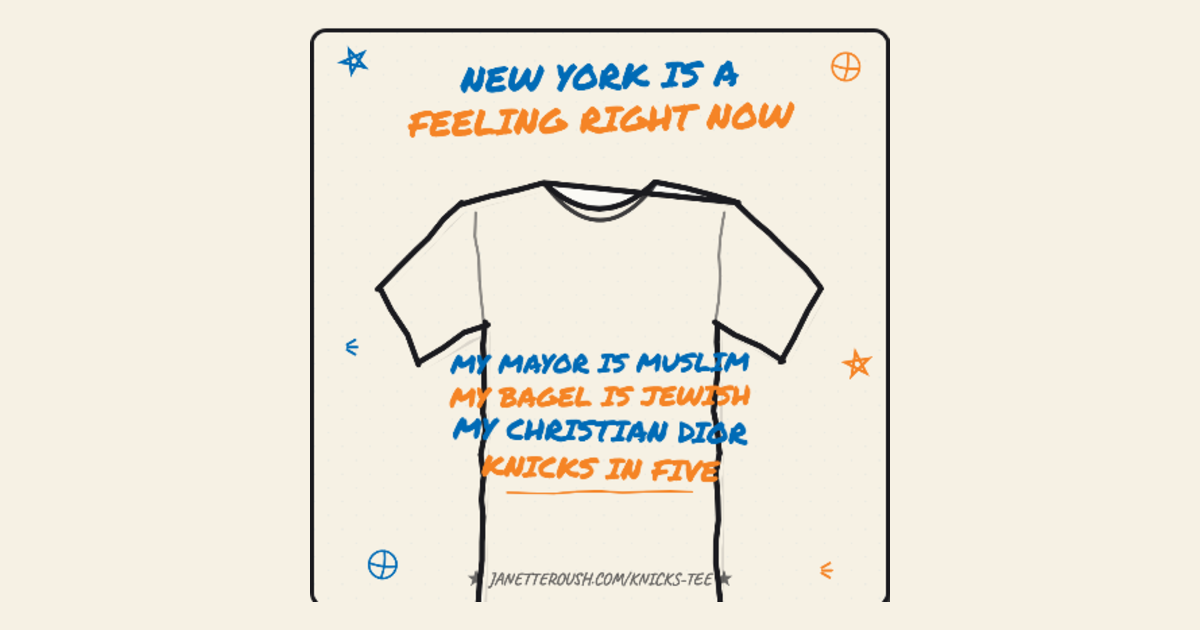
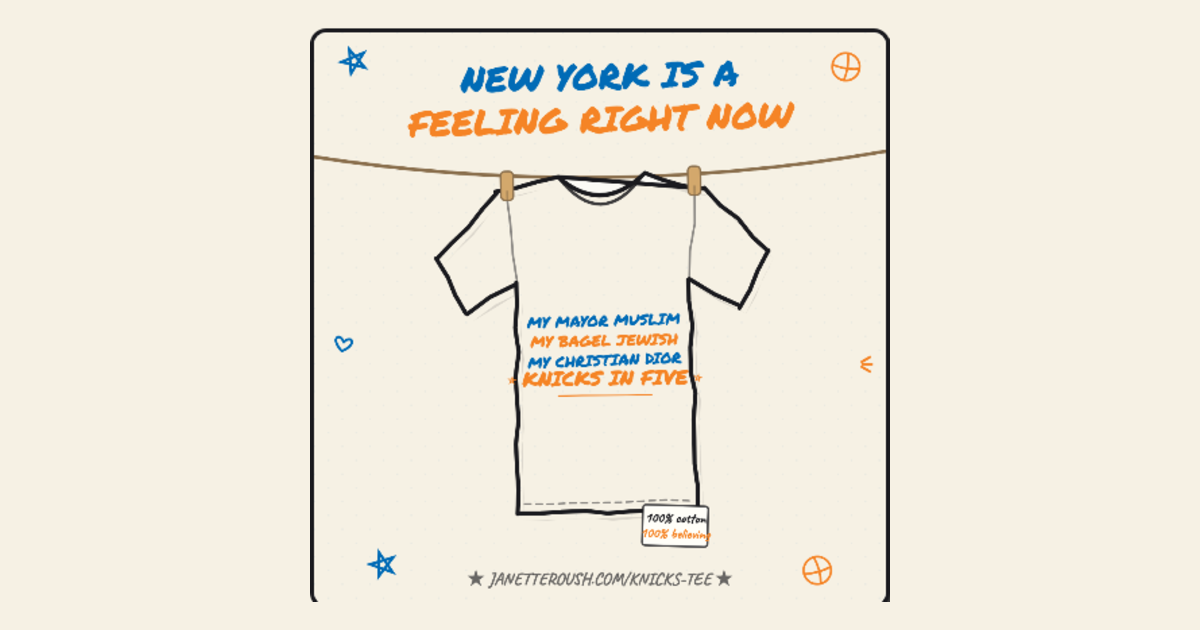
Knicks tee v2: lock the chant, hang the tee on a clothesline
Only the Dior line is editable now. Lettering centered on the shirt
body, closer line enlarged with stars, care label at the hem,
clothespins, hearts.

diff --git a/public/knicks-tee/index.html b/public/knicks-tee/index.html
@@ -104,6 +104,21 @@
     color: var(--ink);
   }
   input[type=text]:focus { outline: 3px solid var(--orange); }
+  .fixedline {
+    width: 100%;
+    font-family: 'Permanent Marker', cursive;
+    font-size: 17px;
+    padding: 8px 10px;
+    border: 2.5px dashed rgba(27,27,31,.45);
+    border-radius: 8px;
+    background: #f1ecdd;
+    margin-bottom: 7px;
+    color: rgba(27,27,31,.75);
+    display: flex;
+    justify-content: space-between;
+    align-items: center;
+  }
+  .fixedline .lock { font-size: 13px; opacity: .6; }
   .chips { display: flex; flex-wrap: wrap; gap: 7px; }
   .chip {
     font-family: 'Permanent Marker', cursive;
@@ -169,14 +184,14 @@
 
 <div class="wrap">
   <div class="panel">
-    <span class="label">YOUR CHANT (write whatever's in your heart)</span>
-    <input type="text" id="line1" maxlength="34" value="MY MAYOR IS MUSLIM">
-    <input type="text" id="line2" maxlength="34" value="MY BAGEL IS JEWISH">
-    <input type="text" id="line3" maxlength="34" value="MY CHRISTIAN DIOR">
-    <input type="text" id="line4" maxlength="34" value="KNICKS IN FIVE">
+    <span class="label">THE CHANT (three lines are law. one is yours)</span>
+    <div class="fixedline">MY MAYOR MUSLIM <span class="lock">🔒</span></div>
+    <div class="fixedline">MY BAGEL JEWISH <span class="lock">🔒</span></div>
+    <input type="text" id="line3" maxlength="28" value="MY CHRISTIAN DIOR">
+    <div class="fixedline">KNICKS IN FIVE <span class="lock">🔒</span></div>
 
-    <span class="label">KNICKS IN ___ (things that rhyme with five, mostly)</span>
-    <div class="chips" id="rhymes"></div>
+    <span class="label">OR BORROW A THIRD LINE</span>
+    <div class="chips" id="suggestions"></div>
 
     <span class="label">TEE STYLE</span>
     <div class="chips" id="styles"></div>
@@ -197,8 +212,7 @@
 
     <div class="btnrow">
       <button class="big dl" id="download">⬇ SAVE MY TEE</button>
-      <button class="big shuffle" id="shuffle">🎲 SHUFFLE LINES</button>
-      <button class="big reset" id="reset">back to the chant</button>
+      <button class="big reset" id="reset">back to Dior</button>
     </div>
   </div>
 
@@ -211,30 +225,21 @@
 <script>
 const SITE_TAG = "JANETTEROUSH.COM/KNICKS-TEE";
 
-const RHYMES = [
-  "FIVE", "FIVE (OBVIOUSLY)", "ALIVE", "A VIBE", "OVERDRIVE",
-  "HIGH FIVE", "STAYIN' ALIVE", "SURVIVE & ADVANCE", "FIVE, BABY"
-];
+const FIXED_TOP = ["MY MAYOR MUSLIM", "MY BAGEL JEWISH"];
+const FIXED_END = "KNICKS IN FIVE";
+const DIOR = "MY CHRISTIAN DIOR";
 
-const SHUFFLE_POOL = [
-  "MY LANDLORD IS LURKING",
-  "MY RAT IS GORGEOUS",
-  "MY BODEGA CAT IS UNDEFEATED",
-  "MY TRAIN IS DELAYED",
-  "MY SLICE IS A DOLLAR",
-  "MY STOOP IS SACRED",
-  "MY THERAPIST IS PROUD",
-  "MY DELI GUY KNOWS MY ORDER",
-  "MY PIGEON IS CARRYING US",
-  "MY HALAL CART IS HEATING UP",
-  "MY SUPER IS SCREENING MY CALLS",
-  "MY BLOCK IS BUZZING",
-  "MY COUSIN HAS A GUY",
-  "MY GARDEN IS SQUARE",
-  "MY HEART IS ORANGE & BLUE"
+// the Dior slot — same cadence, your own devotion
+const SUGGESTIONS = [
+  "MY CHRISTIAN DIOR",
+  "MY RAT GORGEOUS",
+  "MY THERAPIST PROUD",
+  "MY LANDLORD NERVOUS",
+  "MY BODEGA ETERNAL",
+  "MY SLICE FOLDED",
+  "MY GARDEN ELECTRIC",
+  "MY PIGEON FEARLESS"
 ];
-
-const DEFAULTS = ["MY MAYOR IS MUSLIM", "MY BAGEL IS JEWISH", "MY CHRISTIAN DIOR", "KNICKS IN FIVE"];
 
 const STYLES = [
   { key: "marker",  name: "MARKER",     font: "Permanent Marker" },
@@ -402,16 +407,21 @@ function fitFont(c, text, fontFamily, weight, maxW, startSize) {
 function drawChant(c, lines, style, inks, teeIsDark, x, y, w, h, seed) {
   const rnd = mulberry32(seed + 7);
   const styleDef = STYLES.find(s => s.key === style);
-  const maxW = w * 0.66;
+  // keep lettering on the shirt body, off the sleeves
+  const maxW = w * 0.44;
   const cx = x + w * 0.5;
   const active = lines.filter(l => l.trim().length);
   if (!active.length) return;
 
-  const baseSize = style === "puff" ? w * 0.085 : w * 0.062;
+  const baseSize = style === "puff" ? w * 0.078 : w * 0.058;
   const weight = style === "puff" ? "700" : "400";
 
-  // measure all lines first so the block centers vertically in the chest area
-  const sizes = active.map(l => fitFont(c, l, styleDef.font, weight, maxW, baseSize));
+  // measure all lines first so the block centers vertically in the chest area;
+  // the closer gets to be the loudest line on the shirt
+  const sizes = active.map((l, i) => {
+    const big = i === active.length - 1;
+    return fitFont(c, l, styleDef.font, weight, maxW * (big ? 1.08 : 1), baseSize * (big ? 1.3 : 1));
+  });
   const gaps = sizes.map(s => s * (style === "scrawl" ? 1.65 : 1.3));
   const totalH = gaps.reduce((a, b) => a + b, 0);
   const chestTop = y + h * 0.27;
@@ -424,10 +434,11 @@ function drawChant(c, lines, style, inks, teeIsDark, x, y, w, h, seed) {
     const size = sizes[i];
     c.save();
     c.translate(cx, ty);
-    c.rotate(((rnd() - 0.5) * 3) * Math.PI / 180);
+    c.rotate(((rnd() - 0.5) * 2) * Math.PI / 180);
     c.font = `${weight} ${size}px "${styleDef.font}"`;
     c.textAlign = "center";
     c.textBaseline = "alphabetic";
+    const lineW = c.measureText(line).width;
 
     if (style === "ironon") {
       // each letter placed by hand, slightly crooked
@@ -461,6 +472,11 @@ function drawChant(c, lines, style, inks, teeIsDark, x, y, w, h, seed) {
         c.fillText(line, size * 0.02, -size * 0.015);
         c.globalAlpha = 1;
       }
+    }
+    // little stars flank the closer
+    if (i === active.length - 1) {
+      drawStar(c, -lineW / 2 - size * 0.5, -size * 0.32, size * 0.18, ink, rnd);
+      drawStar(c, lineW / 2 + size * 0.5, -size * 0.32, size * 0.18, ink, rnd);
     }
     c.restore();
     lastBaseline = ty;
@@ -511,6 +527,44 @@ function drawBall(c, x, y, r, color, rnd) {
   c.restore();
 }
 
+function drawHeart(c, x, y, r, color, rnd) {
+  c.save();
+  c.translate(x, y);
+  c.rotate((rnd() - 0.5) * 0.5);
+  c.strokeStyle = color;
+  c.lineWidth = r * 0.22;
+  c.lineJoin = "round";
+  c.beginPath();
+  c.moveTo(0, r * 0.35);
+  c.bezierCurveTo(-r * 1.3, -r * 0.55, -r * 0.5, -r * 1.25, 0, -r * 0.45);
+  c.bezierCurveTo(r * 0.5, -r * 1.25, r * 1.3, -r * 0.55, 0, r * 0.35);
+  c.closePath();
+  c.stroke();
+  c.restore();
+}
+
+function drawPin(c, x, y, w, color, outline) {
+  c.save();
+  c.translate(x, y);
+  c.fillStyle = color;
+  c.strokeStyle = outline;
+  c.lineWidth = w * 0.14;
+  c.lineJoin = "round";
+  const pw = w, ph = w * 2.3;
+  c.beginPath();
+  c.roundRect(-pw / 2, -ph * 0.62, pw, ph, w * 0.35);
+  c.fill();
+  c.stroke();
+  // spring slot
+  c.beginPath();
+  c.moveTo(0, ph * 0.05);
+  c.lineTo(0, ph * 0.38);
+  c.lineWidth = w * 0.16;
+  c.globalAlpha = 0.55;
+  c.stroke();
+  c.restore();
+}
+
 function drawSpark(c, x, y, r, color) {
   c.save();
   c.strokeStyle = color;
@@ -532,7 +586,8 @@ function render() {
   canvas.width = fmt.w;
   canvas.height = fmt.h;
 
-  const lines = [1, 2, 3, 4].map(i => document.getElementById("line" + i).value.toUpperCase());
+  const line3 = document.getElementById("line3").value.toUpperCase();
+  const lines = [FIXED_TOP[0], FIXED_TOP[1], line3, FIXED_END];
   const tee = TEE_COLORS[state.teeColor];
   const inks = INKS[state.ink].colors;
   const teeIsDark = ["blue", "orange", "black"].includes(tee.name);
@@ -562,13 +617,35 @@ function render() {
   ctx.fillText("FEELING RIGHT NOW", 0, fmt.w * 0.075);
   ctx.restore();
 
-  // tee
-  const teeW = fmt.w * 0.82;
-  const teeH = teeW * 1.06;
-  const teeX = (fmt.w - teeW) / 2;
+  // tee — sized to always fit between headline and footer
   const teeY = state.format === "story"
     ? headY + fmt.w * 0.16
     : headY + fmt.w * 0.115;
+  const footerRoom = fmt.w * (state.format === "story" ? 0.55 : 0.13);
+  let teeW = fmt.w * 0.82;
+  const maxTeeH = fmt.h - teeY - footerRoom;
+  if (teeW * 1.06 > maxTeeH) teeW = maxTeeH / 1.06;
+  const teeH = teeW * 1.06;
+  const teeX = (fmt.w - teeW) / 2;
+
+  // clothesline strung across the frame, sagging a little under the weight of belief
+  const ropeY = teeY + teeH * 0.055;
+  ctx.save();
+  ctx.strokeStyle = "#8a6f4d";
+  ctx.lineWidth = fmt.w * 0.006;
+  ctx.lineCap = "round";
+  ctx.beginPath();
+  ctx.moveTo(-10, ropeY - fmt.w * 0.035);
+  ctx.quadraticCurveTo(fmt.w * 0.5, ropeY + fmt.w * 0.045, fmt.w + 10, ropeY - fmt.w * 0.045);
+  ctx.stroke();
+  ctx.restore();
+
+  // tee hangs from the line, slightly crooked, like laundry
+  const teeCx = teeX + teeW / 2;
+  ctx.save();
+  ctx.translate(teeCx, teeY);
+  ctx.rotate(-0.022);
+  ctx.translate(-teeCx, -teeY);
 
   // soft shadow behind tee
   ctx.save();
@@ -583,6 +660,34 @@ function render() {
   drawTee(ctx, teeX, teeY, teeW, teeH, tee.tee, tee.outline, seed);
   drawChant(ctx, lines, state.style, inks, teeIsDark, teeX, teeY, teeW, teeH, seed);
 
+  // care label peeking out of the hem
+  const tagW = teeW * 0.185, tagH = teeW * 0.115;
+  const tagX = teeX + teeW * 0.60, tagY = teeY + teeH * 0.938;
+  ctx.save();
+  ctx.translate(tagX + tagW / 2, tagY);
+  ctx.rotate(0.05);
+  ctx.fillStyle = "#fffef8";
+  ctx.strokeStyle = "rgba(27,27,31,.8)";
+  ctx.lineWidth = fmt.w * 0.0035;
+  ctx.beginPath();
+  ctx.roundRect(-tagW / 2, 0, tagW, tagH, 6);
+  ctx.fill();
+  ctx.stroke();
+  ctx.font = `700 ${tagH * 0.34}px "Caveat"`;
+  ctx.textAlign = "center";
+  ctx.fillStyle = "#1b1b1f";
+  ctx.fillText("100% cotton", 0, tagH * 0.42);
+  ctx.fillStyle = "#F58426";
+  ctx.fillText("100% believing", 0, tagH * 0.80);
+  ctx.restore();
+
+  // wooden clothespins at the shoulders
+  const pinW = fmt.w * 0.022;
+  drawPin(ctx, teeX + teeW * 0.235, teeY + teeH * 0.085, pinW, "#d3a86c", "#8a6f4d");
+  drawPin(ctx, teeX + teeW * 0.765, teeY + teeH * 0.082, pinW, "#d3a86c", "#8a6f4d");
+
+  ctx.restore(); // end hanging-tee group
+
   // doodles in the margins
   const dColors = ["#006BB6", "#F58426"];
   const spots = state.format === "story"
@@ -590,9 +695,10 @@ function render() {
     : [[0.07, 0.05], [0.93, 0.06], [0.05, 0.55], [0.95, 0.58], [0.12, 0.93], [0.88, 0.94]];
   spots.forEach(([fx, fy], i) => {
     const x = fx * fmt.w, y = fy * fmt.h, col = dColors[i % 2];
-    const kind = i % 3;
+    const kind = i % 4;
     if (kind === 0) drawStar(ctx, x, y, fmt.w * 0.022, col, rnd);
     else if (kind === 1) drawBall(ctx, x, y, fmt.w * 0.024, col, rnd);
+    else if (kind === 2) drawHeart(ctx, x, y, fmt.w * 0.020, col, rnd);
     else drawSpark(ctx, x, y, fmt.w * 0.018, col);
   });
 
@@ -647,9 +753,9 @@ function buildSwatches(containerId, items, getColor, isOn, onPick) {
 }
 
 function refreshUI() {
-  buildChips("rhymes", RHYMES, r => r,
-    r => document.getElementById("line4").value.toUpperCase() === "KNICKS IN " + r,
-    r => { document.getElementById("line4").value = "KNICKS IN " + r; });
+  buildChips("suggestions", SUGGESTIONS, s => s,
+    s => document.getElementById("line3").value.toUpperCase() === s,
+    s => { document.getElementById("line3").value = s; });
   buildChips("styles", STYLES, s => s.name,
     s => s.key === state.style,
     s => { state.style = s.key; });
@@ -667,23 +773,10 @@ function refreshUI() {
     (k, i) => { state.ink = i; });
 }
 
-[1, 2, 3, 4].forEach(i =>
-  document.getElementById("line" + i).addEventListener("input", () => { refreshUI(); render(); }));
-
-document.getElementById("shuffle").onclick = () => {
-  const pool = [...SHUFFLE_POOL];
-  for (let i = pool.length - 1; i > 0; i--) {
-    const j = Math.floor(Math.random() * (i + 1));
-    [pool[i], pool[j]] = [pool[j], pool[i]];
-  }
-  document.getElementById("line1").value = pool[0];
-  document.getElementById("line2").value = pool[1];
-  document.getElementById("line3").value = pool[2];
-  refreshUI(); render();
-};
+document.getElementById("line3").addEventListener("input", () => { refreshUI(); render(); });
 
 document.getElementById("reset").onclick = () => {
-  DEFAULTS.forEach((v, i) => document.getElementById("line" + (i + 1)).value = v);
+  document.getElementById("line3").value = DIOR;
   refreshUI(); render();
 };
 